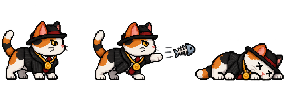
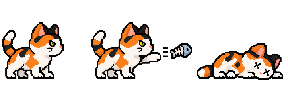
feat(보스): 삼색이와 사모예드 그림 교체

Changed region(s): [[0.3125, 0.2188, 0.6875, 0.8438], [0.0, 0.2188, 0.25, 0.8438], [0.6562, 0.4375, 1.0, 0.8438]]

diff --git a/src/app/globals.css b/src/app/globals.css
@@ -313,7 +313,7 @@ form { display: flex; gap: 6px; margin-top: 10px; } form input { min-width: 0; f
 .pause-button { right: 58px; }
 .reset-progress-button { right: 16px; }
 .boss-hearts { position: absolute; top: 16px; right: 102px; z-index: 5; display: flex; align-items: center; gap: 5px; min-height: 32px; padding: 2px 7px; border: 2px solid #5f3942; background: rgb(255 248 229 / 95%); white-space: nowrap; }
-.boss-hearts-face { width: 24px; height: 24px; flex: 0 0 24px; background: url("/assets/pixel/ui/corgi-face.png") center / contain no-repeat; image-rendering: pixelated; }
+.boss-hearts-face { width: 24px; height: 24px; flex: 0 0 24px; background: url("/assets/pixel/references/characters/corgi-reference-v2.png") -81.45px -23.27px / 129.02px 64.51px no-repeat; image-rendering: pixelated; }
 .boss-heart { color: #db4053; font: 900 23px monospace; line-height: 1; text-shadow: 1px 2px #5f3942; }
 .boss-heart.is-empty { color: #a7a1a0; text-shadow: none; }
 @media (max-width: 720px) {
@@ -325,7 +325,7 @@ form { display: flex; gap: 6px; margin-top: 10px; } form input { min-width: 0; f
   .game-overlay.has-boss-hearts .hud-stats { display: none; }
   .game-overlay.has-boss-hearts .status-menu-button { position: absolute; top: 56px; left: 8px; }
   .boss-hearts { top: 16px; right: 102px; gap: 3px; padding: 1px 5px; }
-  .boss-hearts-face { width: 20px; height: 20px; flex-basis: 20px; }
+  .boss-hearts-face { width: 20px; height: 20px; flex-basis: 20px; background-position: -67.88px -19.39px; background-size: 107.52px 53.76px; }
   .boss-heart { font-size: 19px; }
 }
 

diff --git a/src/game/scenes/StageScene.ts b/src/game/scenes/StageScene.ts
@@ -285,7 +285,9 @@ export class StageScene extends Phaser.Scene {
       });
     }
     if (stage.id === "world-01-stage-boss") {
-      this.calicoSprite = this.add.sprite(1280, 472, "world-01-calico-boss", 0).setDepth(10);
+      this.calicoSprite = this.add.sprite(1280, 472, "world-01-calico-boss", 0)
+        .setDepth(10)
+        .setFlipX(true);
       this.combatSystem = new CombatSystem(this.player, this.gameplayEventBus, TOOL_DEFINITIONS);
       this.combatSystem.setAttackTool("rabbit-slipper");
       this.defenseToolSystem = new DefenseToolSystem(this.gameplayEventBus, TOOL_DEFINITIONS);

diff --git a/src/game/systems/World01CalicoBoss.ts b/src/game/systems/World01CalicoBoss.ts
@@ -223,8 +223,7 @@ export class World01CalicoBoss {
     this.dogs.getActiveDogs().forEach((dog, index) => {
       const image = this.scene.add.image(dog.x, dog.y, "world-01-stray-dog")
         .setDisplaySize(48, 40).setDepth(11)
-        .setFlipX(index === 2)
-        .setTint([0xffffff, 0xeacb9a, 0xc4b5d7][index]);
+        .setFlipX(index === 2);
       this.dogSprites.push(image);
     });
   }

diff --git a/.memory/phases/2026-09-29-world-stage-visual-polish/P01-progression-and-visuals/T03-boss-and-heart-visuals.md b/.memory/phases/2026-09-29-world-stage-visual-polish/P01-progression-and-visuals/T03-boss-and-heart-visuals.md
@@ -1,14 +1,14 @@
 # Task: T03 보스 캐릭터와 하트 얼굴 그림
 
-## Status: pending
+## Status: done
 
 ## Goal
 삼색이를 장신구 없는 모습으로 오른쪽을 향해 배치하고, 밥그릇 방어 역효과의 세 마리를 사모예드로 바꾼다. 보스 하트 HUD에는 지정된 코기 참조 이미지의 정면 얼굴을 표시한다.
 
 ## Decision Summary
 - 기존 보스의 3프레임 상태와 전투 판정은 유지하며, 삼색이 그림에서 옷·모자·목걸이·장신구를 제거하고 StageScene에서 좌우 반전한다.
-- 세 마리 동시 등장과 48x40 화면 크기는 유지하고, 흰색 풍성한 털과 단순한 검은 원형 눈을 가진 사모예드로 교체한다.
-- HUD 얼굴의 소스 파일은 public/assets/pixel/references/characters/corgi-reference-v2.png로 고정한다. 전체 표정 시트가 아닌 정면 얼굴 영역만 잘라 보인다.
+- 세 마리 동시 등장과 48x40 화면 크기는 유지하고, 흰색 풍성한 털과 단순한 검은 원형 눈을 가진 사모예드로 교체한다. 개별 색조를 적용하지 않는다.
+- HUD 얼굴의 소스 파일은 public/assets/pixel/references/characters/corgi-reference-v2.png로 고정한다. 표정 시트의 아래쪽 정면 얼굴 영역(x=1120, y=320, 330x330)만 CSS 배경 크롭으로 보인다.
 
 ## Implementation
 
@@ -17,7 +17,7 @@
   - public/assets/pixel/characters/world-01/calico-boss.png :: 3-frame boss spritesheet; replace
   - public/assets/pixel/characters/world-01/stray-dog.png :: surround dog image; replace
   - src/game/scenes/StageScene.ts :: world-01 boss sprite creation; modify
-  - src/game/systems/World01CalicoBoss.ts :: spawnDogSurround; verify read-only unless asset sizing requires adjustment
+  - src/game/systems/World01CalicoBoss.ts :: spawnDogSurround; remove per-dog tint so all Samoyeds remain white
 
 #### Details
 - Edit the existing 288x96 calico sheet as three 96x96 frames: neutral, fishbone attack and defeated/collapsed. Remove hat, clothes, collar, necklace and every accessory from every frame. Keep a calico coat, consistent pixel outline and transparent canvas.
@@ -34,20 +34,23 @@
 
 #### Details
 - Point the loaded world-01-corgi-face image to /assets/pixel/references/characters/corgi-reference-v2.png.
-- Crop the single neutral front-facing face from the sheet using a fixed overflow-hidden viewport and CSS background size/position or an equivalent image crop. Do not copy another reference image or use the old corgi-face icon.
+- Crop the single neutral front-facing face from the sheet using a fixed overflow-hidden viewport and CSS background size/position or an equivalent image crop. Do not copy another reference image or use the old corgi-face icon. Use the lower front-facing portrait crop at x=1120, y=320, width=330, height=330.
 - Preserve the HUD's right-top position immediately left of pause and retain three hearts. Ensure the crop remains correct in the existing max-width:720px style and set image-rendering: pixelated.
 
 ## Acceptance Criteria
-- [ ] All three Calico animation frames are accessory-free and the in-game sprite faces left toward Corgi.
-- [ ] Third bowl defense still displays three fluffy white Samoyeds with black dot eyes and keeps the same short blockade behavior.
-- [ ] The 3-heart HUD uses the specified reference image's single neutral Corgi face on desktop and mobile, next to pause.
-- [ ] Boss HP, fishbone attacks, slipper hits and victory dialogue remain unchanged.
+- [x] All three Calico animation frames are accessory-free and the in-game sprite faces left toward Corgi.
+- [x] Third bowl defense still displays three fluffy white Samoyeds with black dot eyes and keeps the same short blockade behavior.
+- [x] The 3-heart HUD uses the specified reference image's single neutral Corgi face on desktop and mobile, next to pause.
+- [x] Boss HP, fishbone attacks, slipper hits and victory dialogue remain unchanged.
 
 ## Validation
 - npx.cmd tsc --noEmit — no type errors.
 - npm.cmd run lint — no lint errors.
 - npm.cmd run build — production build succeeds.
 - Browser visual check — boss intro/attack/defeat frames, dog surround, and 3/2/1/0 heart states.
+- npm.cmd run test:progression — 3/3 campaign sequence tests pass.
+- Browser evidence: intro dialogue starts before combat; runtime `flipX` is true; three actual weak-hit blocks consume the bowl and render three untinted Samoyeds. Desktop face is 24x24; mobile face is 20x20 and remains left of pause. Repeated unblocked fishbone hits reduce the hearts and the third hit returns to the Stage 4 checkpoint.
+- Screenshots: [boss intro](../../../test-plans/assets/world01-t03-boss-initial.png), [fishbone attack and Calico](../../../test-plans/assets/world01-t03-boss-attack.png), [Samoyed surround](../../../test-plans/assets/world01-t03-samoyeds.png), [mobile HUD](../../../test-plans/assets/world01-t03-boss-mobile.png).
 
 ## Commit Message
 feat(보스): 삼색이와 사모예드 그림 교체
@@ -60,6 +63,6 @@ Task: T03-boss-and-heart-visuals
 - 지정 코기 참조 얼굴을 하트 HUD에 사용한다
 
 ## Progress
-- [ ] 구현 완료
-- [ ] 검증 통과
-- commit: pending
+- [x] 구현 완료
+- [x] 검증 통과
+- commit: Korean T03 commit

diff --git a/.memory/current.md b/.memory/current.md
@@ -4,14 +4,15 @@
 [월드 스테이지 진행과 비주얼 보정](./plans/2026-09-29-world-stage-visual-polish.md)
 
 ## Active Phase
-[P01 진행과 월드 1 비주얼](./phases/2026-09-29-world-stage-visual-polish/P01-progression-and-visuals/phase.md) (진행 중)
+[P01 진행과 월드 1 비주얼](./phases/2026-09-29-world-stage-visual-polish/P01-progression-and-visuals/phase.md) (완료)
 
 ## Active Task
-[T03 보스 캐릭터와 하트 얼굴 그림](./phases/2026-09-29-world-stage-visual-polish/P01-progression-and-visuals/T03-boss-and-heart-visuals.md)
+없음 (계획의 모든 Task 완료)
 
 ## Status
 - T01 완료: STAGE_IDS 기반 캠페인 이동과 재접속 검증.
 - T02 완료: 낮 배경·열린 맨홀·비둘기 교체, 맵 생성 검증 및 스테이지 화면 캡처 완료.
+- T03 완료: 장신구 없는 삼색이, 흰 사모예드, 지정 코기 얼굴을 반영하고 데스크톱·모바일 브라우저 확인.
 
-## Next Step (IMPORTANT)
-T03 청사진을 읽고 삼색이·사모예드 그림과 지정 코기 얼굴을 보스 하트 HUD에 반영한다.
+## Next Step
+현재 계획의 모든 Task가 완료되었습니다.

diff --git a/.memory/plans/2026-09-29-world-stage-visual-polish.md b/.memory/plans/2026-09-29-world-stage-visual-polish.md
@@ -6,7 +6,7 @@
 ## Phases
 | Phase | Status | Summary | Blueprint |
 | :--- | :--- | :--- | :--- |
-| P01 | in_progress | 캠페인 이동 버그와 월드 1 환경·보스 비주얼을 순차 보정 | [P01](../phases/2026-09-29-world-stage-visual-polish/P01-progression-and-visuals/phase.md) |
+| P01 | done | 캠페인 이동 버그와 월드 1 환경·보스 비주얼 보정 완료 | [P01](../phases/2026-09-29-world-stage-visual-polish/P01-progression-and-visuals/phase.md) |
 
 ## Confirmed Decisions
 - 캠페인 순서는 STAGE_IDS를 기준으로 한다. 월드 1 보스 뒤의 승리 대화와 NEXT STAGE 화면은 보존한다.

diff --git a/.memory/phases/2026-09-29-world-stage-visual-polish/P01-progression-and-visuals/phase.md b/.memory/phases/2026-09-29-world-stage-visual-polish/P01-progression-and-visuals/phase.md
@@ -5,7 +5,7 @@
 | :--- | :--- | :--- | :--- |
 | T01 | done ✅ | 캠페인 전체 다음 단계 이동과 재접속 위치 수정 | [T01](./T01-campaign-stage-progression.md) |
 | T02 | done ✅ | 낮 배경, 열린 맨홀, 정적 비둘기 비주얼 교체 | [T02](./T02-day-background-hazards.md) |
-| T03 | in_progress 🔵 | 삼색이·사모예드·하트 HUD 코기 얼굴 반영 | [T03](./T03-boss-and-heart-visuals.md) |
+| T03 | done ✅ | 삼색이·사모예드·하트 HUD 코기 얼굴 반영 | [T03](./T03-boss-and-heart-visuals.md) |
 
 ## Progress
-- done: 2/3 (active: T03)
+- done: 3/3
